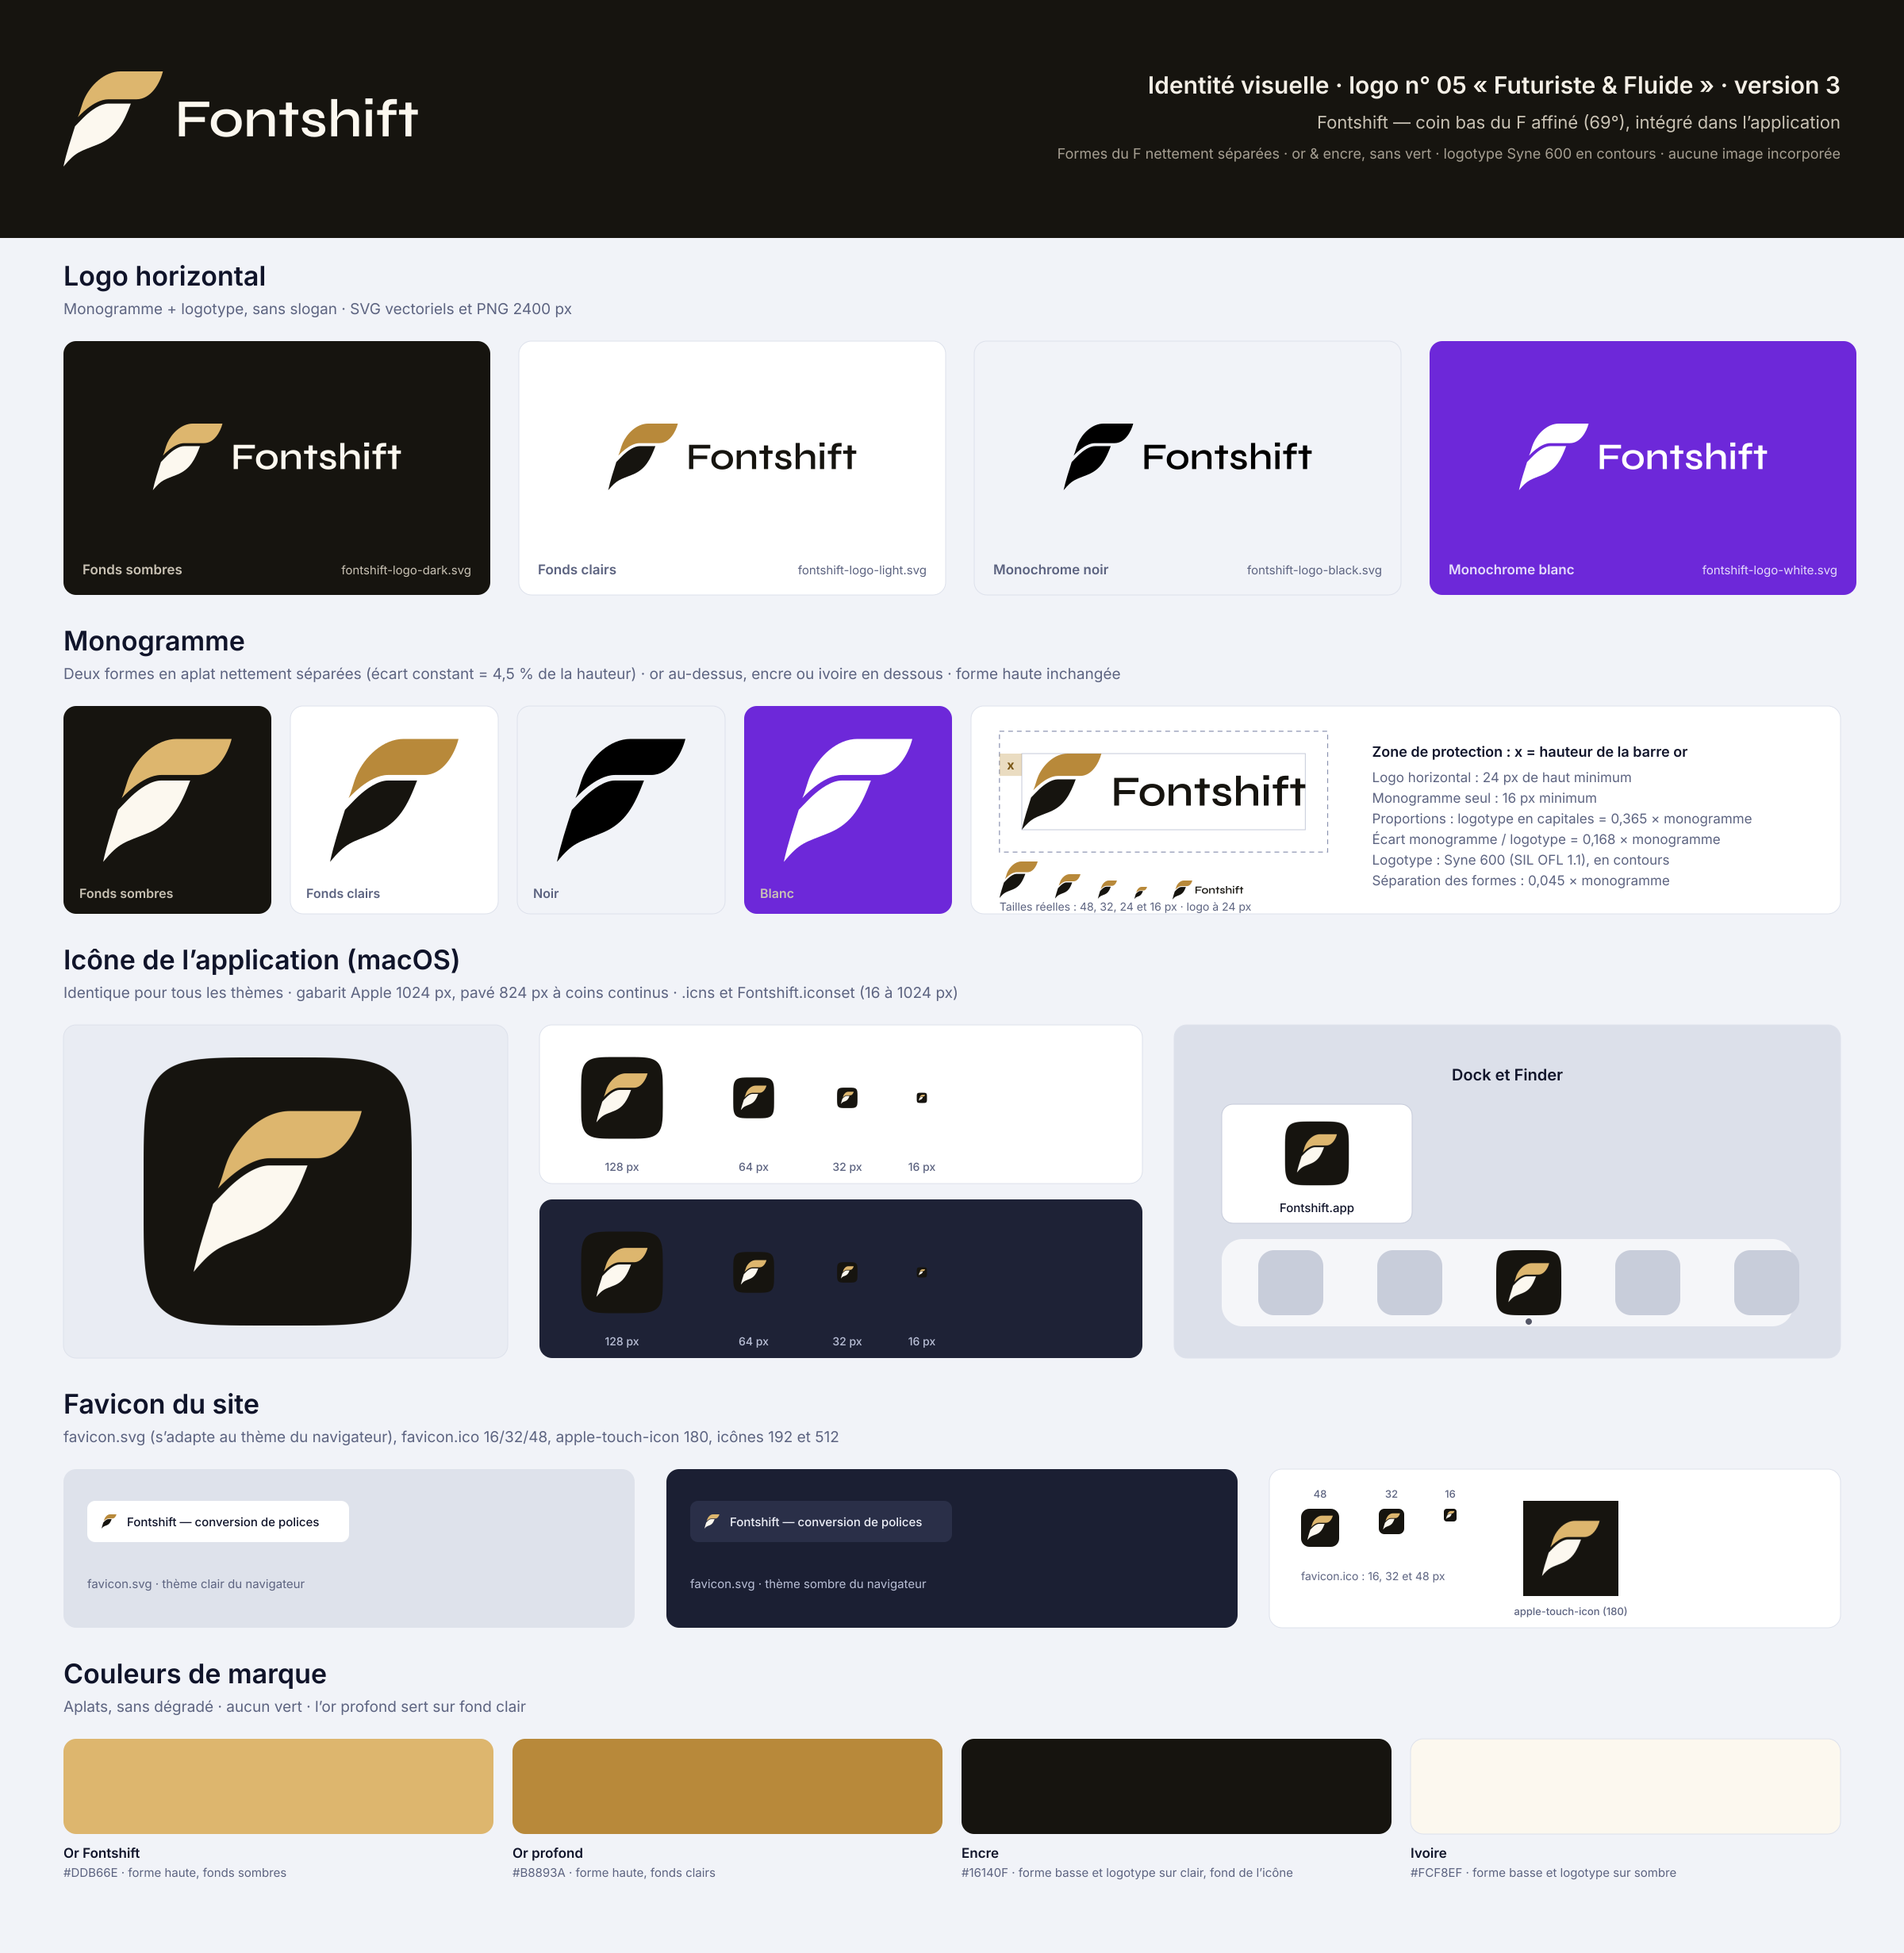
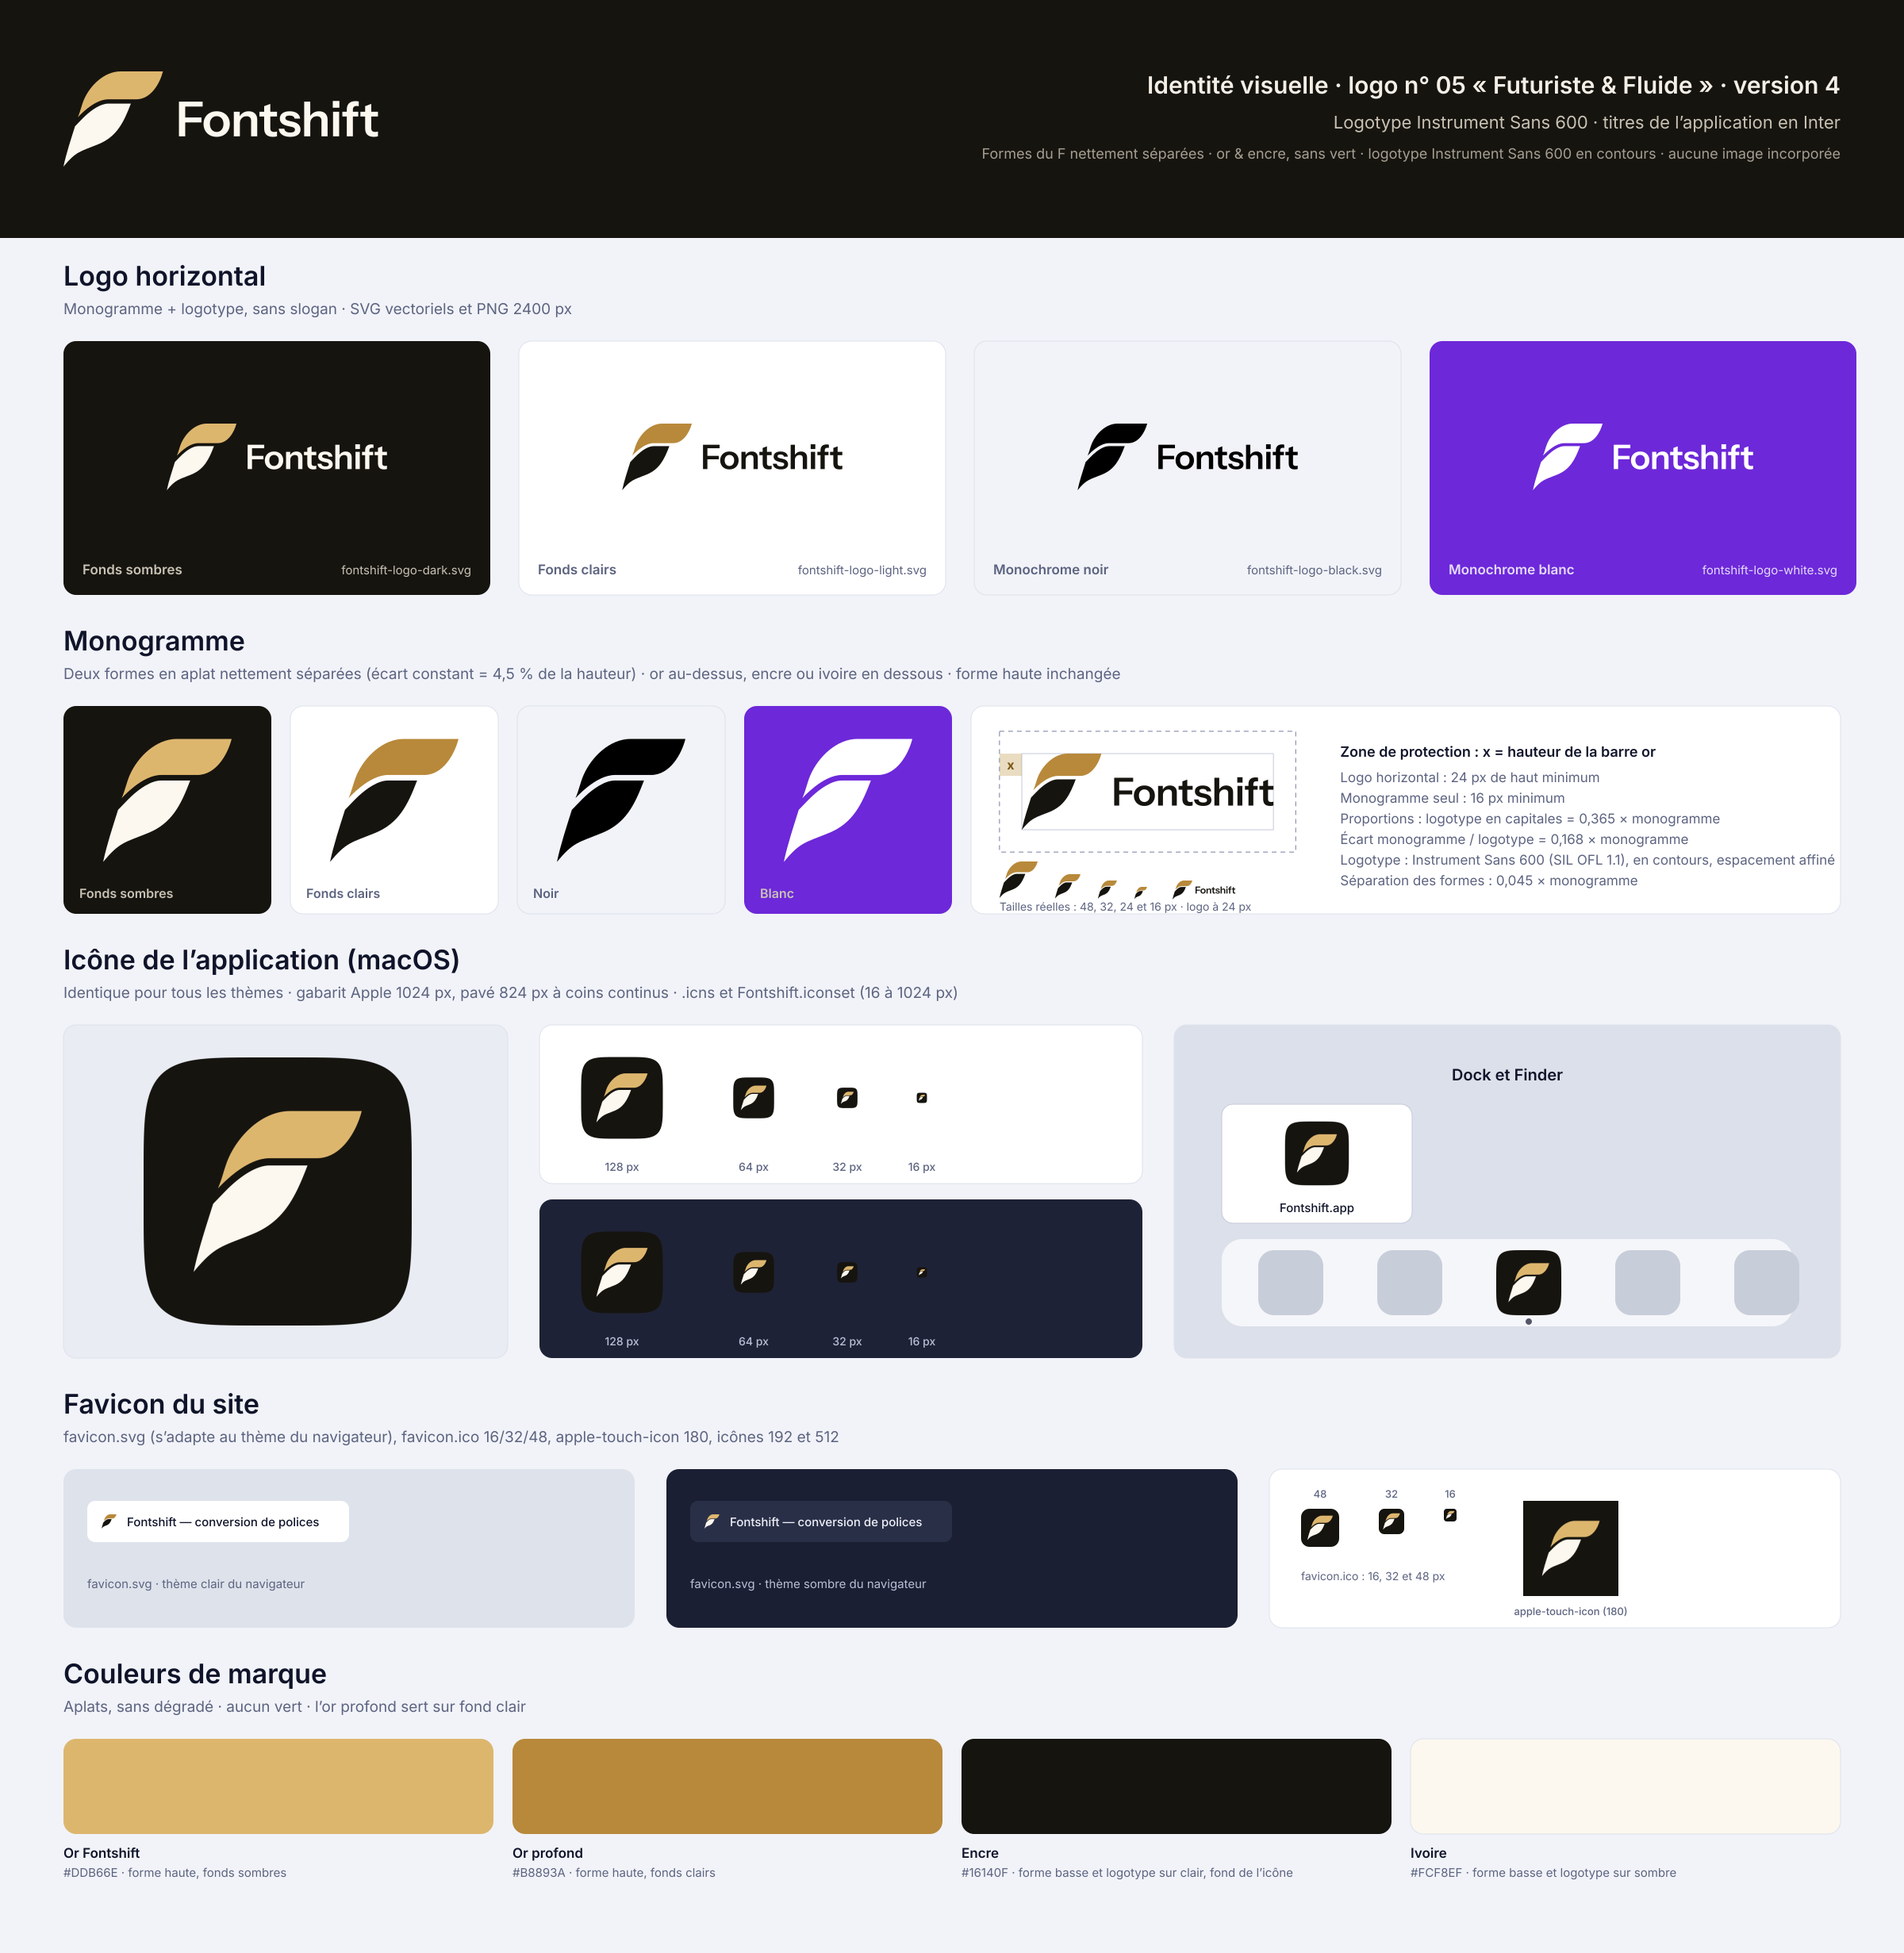
Logotype en Instrument Sans 600 affiné, titres en Inter, Syne retirée
- Logotype recomposé en Instrument Sans 600 : approche −1 %, « Fo » resserré, « ft » séparé ;
  logos, planche d'identité et géométrie de l'interface régénérés (monogramme inchangé).
- Titres de l'application en Inter (comme le texte) : Syne n'est plus chargée ni installée.
- Instrument Sans ajoutée en dépendance de développement (génération du logo seulement).

Claude-Session: https://claude.ai/code/session_01YUWehFn8GVS1RsmWntzcKC

diff --git a/src/lib/brand/index.ts b/src/lib/brand/index.ts
@@ -1,5 +1,5 @@
 // Identité Fontshift dans l'interface : une seule source, les fichiers de design/brand.
-// Géométrie vectorielle (monogramme séparé + logotype Syne 600 en contours) produite par
+// Géométrie vectorielle (monogramme séparé + logotype Instrument Sans 600 en contours) produite par
 // design/brand/source/build_brand.py ; l'icône d'application est le même SVG que l'icône macOS.
 import geometry from '../../../design/brand/source/brand-geometry.json';
 import appIconSvg from '../../../design/brand/macos/fontshift-app-icon.svg?raw';

diff --git a/src/app.css b/src/app.css
@@ -47,7 +47,7 @@
   --color-overlay: var(--ftn-overlay);
 
   --font-sans: 'Inter Variable', -apple-system, 'Segoe UI', system-ui, sans-serif;
-  --font-display: 'Syne Variable', 'Inter Variable', system-ui, sans-serif; /* titres : police du logotype */
+  --font-display: 'Inter Variable', -apple-system, 'Segoe UI', system-ui, sans-serif; /* titres : Inter, comme le texte (tailles d'affichage via l'axe opsz) */
   --font-mono: 'JetBrains Mono Variable', ui-monospace, Menlo, Consolas, monospace;
 }
 

diff --git a/src/main.ts b/src/main.ts
@@ -1,6 +1,5 @@
 import { mount } from 'svelte';
 import '@fontsource-variable/inter/opsz.css';
-import '@fontsource-variable/syne/wght.css';
 import '@fontsource-variable/jetbrains-mono/wght.css';
 import './app.css';
 import App from './App.svelte';

diff --git a/design/brand/source/gen_wordmark.py b/design/brand/source/gen_wordmark.py
@@ -1,4 +1,6 @@
-"""Logotype « Fontshift » en Syne 600 → work/wordmark.json (contours vectoriels, y vers le bas, ligne de base à 0)."""
+"""Logotype « Fontshift » en Instrument Sans 600 → wordmark.json (contours vectoriels, y vers le bas, ligne de base à 0).
+
+Espacement affiné : approche générale −1 % du cadratin, « Fo » resserré, « ft » gardé séparé (barres non soudées)."""
 import io, json, sys
 import os
 HERE = os.path.dirname(os.path.abspath(__file__))   # design/brand/source
@@ -9,8 +11,9 @@ from fontTools.pens.recordingPen import DecomposingRecordingPen
 from fontTools.pens.boundsPen import BoundsPen
 import uharfbuzz as hb
 
-SRC = os.path.join(HERE, '..', '..', '..', 'node_modules', '@fontsource-variable', 'syne', 'files', 'syne-latin-wght-normal.woff2')
-WGHT, TRACK, TEXT = 600, 0.0, 'Fontshift'
+SRC = os.path.join(HERE, '..', '..', '..', 'node_modules', '@fontsource-variable', 'instrument-sans', 'files', 'instrument-sans-latin-wght-normal.woff2')
+WGHT, TRACK, TEXT = 600, -0.01, 'Fontshift'
+KERN_ADJ = {('F', 'o'): -18, ('f', 't'): 8}          # unités de la police (1000 par cadratin), en plus du crénage d'origine
 
 f = TTFont(SRC); f.flavor = None
 f = instancer.instantiateVariableFont(f, {'wght': WGHT}, static=True)
@@ -25,8 +28,9 @@ hb.shape(font, b, {'kern': True, 'liga': False})
 cmds, d, kern = [], [], []
 x = 0.0; xmin, xmax, ymin = 1e9, -1e9, 1e9
 P = lambda px, py: [round(x + px, 2), round(-py, 2)]
-for info, pos in zip(b.glyph_infos, b.glyph_positions):
-    g = order[info.codepoint]
+names = [order[i.codepoint] for i in b.glyph_infos]
+for n, (info, pos) in enumerate(zip(b.glyph_infos, b.glyph_positions)):
+    g = names[n]
     rp = DecomposingRecordingPen(gs); gs[g].draw(rp)
     for op, args in rp.value:
         if op == 'moveTo': cmds.append(['M', [P(*args[0])]])
@@ -42,11 +46,12 @@ for info, pos in zip(b.glyph_infos, b.glyph_positions):
     bp = BoundsPen(gs); gs[g].draw(bp)
     if bp.bounds:
         xmin = min(xmin, x + bp.bounds[0]); xmax = max(xmax, x + bp.bounds[2]); ymin = min(ymin, bp.bounds[1])
-    kern.append([g, pos.x_advance])
-    x += pos.x_advance + TRACK * upem
+    adj = KERN_ADJ.get((g, names[n + 1] if n + 1 < len(names) else None), 0)
+    kern.append([g, pos.x_advance + adj])
+    x += pos.x_advance + adj + TRACK * upem
 
 fmt = lambda v: f'{v:.2f}'.rstrip('0').rstrip('.')
 dd = ''.join(op + ' '.join(f'{fmt(a)} {fmt(c)}' for a, c in pts) for op, pts in cmds)
-json.dump({'font': f'Syne {WGHT}', 'd': dd, 'upem': upem, 'cap': cap, 'ink': [round(xmin, 2), round(ymin, 2), round(xmax, 2), cap],
+json.dump({'font': f'Instrument Sans {WGHT}', 'd': dd, 'upem': upem, 'cap': cap, 'ink': [round(xmin, 2), round(ymin, 2), round(xmax, 2), cap],
            'advance': x, 'kern': kern, 'tracking': TRACK, 'cmds': cmds}, open(HERE + '/wordmark.json', 'w'))
-print('Syne', WGHT, 'upem', upem, 'cap', cap, 'ink', round(xmin, 1), round(xmax, 1), 'glyphs', [k[0] for k in kern])
+print('Instrument Sans', WGHT, 'upem', upem, 'cap', cap, 'ink', round(xmin, 1), round(xmax, 1), 'glyphs', [k[0] for k in kern])

diff --git a/design/brand/source/board.py b/design/brand/source/board.py
@@ -50,9 +50,9 @@ y = 0
 # --- En-tête
 parts.append(rect(0, 0, W, 300, C['ink'], rx=0))
 parts.append(logo(80, 90, 120, C['gold'], C['ivory'], C['ivory']))
-parts.append(text(W - 80, 118, 'Identité visuelle · logo n° 05 « Futuriste & Fluide » · version 3', 30, 600, '#F4EFE6', 'end'))
-parts.append(text(W - 80, 162, 'Fontshift — coin bas du F affiné (69°), intégré dans l’application', 22, 400, '#C9C2B4', 'end'))
-parts.append(text(W - 80, 200, 'Formes du F nettement séparées · or & encre, sans vert · logotype Syne 600 en contours · aucune image incorporée', 18, 400, '#A69F92', 'end'))
+parts.append(text(W - 80, 118, 'Identité visuelle · logo n° 05 « Futuriste & Fluide » · version 4', 30, 600, '#F4EFE6', 'end'))
+parts.append(text(W - 80, 162, 'Logotype Instrument Sans 600 · titres de l’application en Inter', 22, 400, '#C9C2B4', 'end'))
+parts.append(text(W - 80, 200, 'Formes du F nettement séparées · or & encre, sans vert · logotype Instrument Sans 600 en contours · aucune image incorporée', 18, 400, '#A69F92', 'end'))
 y = 360
 
 
@@ -110,7 +110,7 @@ parts.append(text(tx, y + 96, 'Logo horizontal : 24 px de haut minimum', 17, 400
 parts.append(text(tx, y + 122, 'Monogramme seul : 16 px minimum', 17, 400, MUTED))
 parts.append(text(tx, y + 148, 'Proportions : logotype en capitales = 0,365 × monogramme', 17, 400, MUTED))
 parts.append(text(tx, y + 174, 'Écart monogramme / logotype = 0,168 × monogramme', 17, 400, MUTED))
-parts.append(text(tx, y + 200, 'Logotype : Syne 600 (SIL OFL 1.1), en contours', 17, 400, MUTED))
+parts.append(text(tx, y + 200, 'Logotype : Instrument Sans 600 (SIL OFL 1.1), en contours, espacement affiné', 17, 400, MUTED))
 parts.append(text(tx, y + 226, 'Séparation des formes : 0,045 × monogramme', 17, 400, MUTED))
 # petites tailles réelles
 sx = lx - pad

diff --git a/design/brand/source/build_brand.py b/design/brand/source/build_brand.py
@@ -1,6 +1,6 @@
 """Construit les assets de marque Fontshift (logo n° 05, aplats) à partir des tracés vectorisés.
 
-Entrées : work/monogram.json (monogramme séparé, work/separate.py), work/wordmark.json (logotype Syne 600, work/gen_wordmark.py).
+Entrées : work/monogram.json (monogramme séparé, work/separate.py), work/wordmark.json (logotype Instrument Sans 600, gen_wordmark.py).
 Sortie : out/fontshift-brand/ (SVG, PNG, icônes macOS, favicons).
 """
 import json, os, re, subprocess, sys, shutil

diff --git a/design/brand/README.md b/design/brand/README.md
@@ -1,8 +1,11 @@
-# Fontshift — identité visuelle (logo n° 05, aplats) · version 3
+# Fontshift — identité visuelle (logo n° 05, aplats) · version 4
 
 Assets de marque intégrés dans l'application (icônes, logo de l'interface, favicons).
 
-Version 3 : l'application s'appelle Fontshift (logotype recomposé en Syne 600) et le coin haut-droit
+Version 4 : logotype en Instrument Sans 600, espacement affiné (approche −1 %, « Fo » resserré, « ft » séparé) ;
+Syne est abandonnée, les titres de l'application passent en Inter comme le reste du texte.
+
+Version 3 : l'application s'appelle Fontshift et le coin haut-droit
 de la forme basse du F est affiné (environ 69° au lieu de 82°) : son bord droit penche dans le même sens
 que l'extrémité de la barre or.
 
@@ -44,5 +47,6 @@ en `currentColor`, pour l'interface.
 La forme haute du monogramme est reprise sans modification du tracé validé (courbes de Bézier).
 Le bord supérieur de la forme basse suit une courbe parallèle au bord inférieur de la forme haute,
 à distance constante, jusqu'au contour gauche du F. Les autres bords conservent leurs courbes d'origine.
-Le logotype est composé en Syne (SIL Open Font License 1.1, graisse 600, chevauchements supprimés),
+Le logotype est composé en Instrument Sans (SIL Open Font License 1.1, graisse 600, chevauchements supprimés,
+espacement affiné),
 puis converti en contours : aucune police n'est nécessaire pour afficher le logo.

diff --git a/THIRD_PARTY_NOTICES.md b/THIRD_PARTY_NOTICES.md
@@ -9,7 +9,7 @@
 | [Svelte](https://svelte.dev) 5, [Vite](https://vite.dev), [Tailwind CSS](https://tailwindcss.com) 4 | interface | MIT |
 | [intl-messageformat](https://formatjs.github.io) | messages ICU (pluriels, variables) | BSD-3-Clause |
 | [Heroicons](https://heroicons.com) 2 | icônes | MIT |
-| [Inter](https://rsms.me/inter/), [Syne](https://gitlab.com/bonjour-monde/fonderie/syne-typeface), [JetBrains Mono](https://www.jetbrains.com/lp/mono/) (via Fontsource) | polices de l'interface ; Syne 600 sert aussi au logotype, converti en contours | SIL OFL 1.1 |
+| [Inter](https://rsms.me/inter/), [Instrument Sans](https://fonts.google.com/specimen/Instrument+Sans), [JetBrains Mono](https://www.jetbrains.com/lp/mono/) (via Fontsource) | Inter et JetBrains Mono : polices de l'interface ; Instrument Sans 600 : logotype, converti en contours (aucune police chargée par l'application) | SIL OFL 1.1 |
 | [Playfair Display](https://github.com/clauseggers/Playfair) | contours du spécimen anatomique « Ag » (src/lib/glyphs.ts) | SIL OFL 1.1 |
 | [sys-locale](https://github.com/1Password/sys-locale) | langue du système | MIT ou Apache-2.0 |
 

diff --git a/README.md b/README.md
@@ -3,7 +3,7 @@
 Application de bureau légère (macOS, Windows, Linux) pour convertir des polices :
 TTF, OTF, WOFF, WOFF2 et EOT, polices variables comprises, avec import depuis Google Fonts
 et génération du CSS `@font-face`. Identité visuelle : logo n° 05 « Futuriste & Fluide » (monogramme F
-or et encre, logotype Syne). Anciennement « Fontaine » (renommée en 1.5.0). 5 thèmes en aplats (Champagne & Encre par défaut, puis Navy, Emerald, Burgundy et Plum) en clair et en sombre,
+or et encre, logotype Instrument Sans, interface et titres en Inter). Anciennement « Fontaine » (renommée en 1.5.0). 5 thèmes en aplats (Champagne & Encre par défaut, puis Navy, Emerald, Burgundy et Plum) en clair et en sombre,
 en français, anglais et espagnol.
 
 ## Ce que fait l'application
